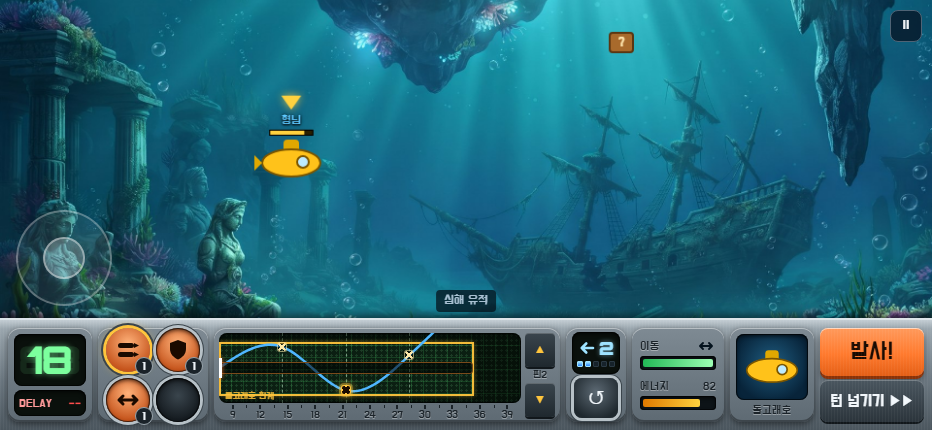
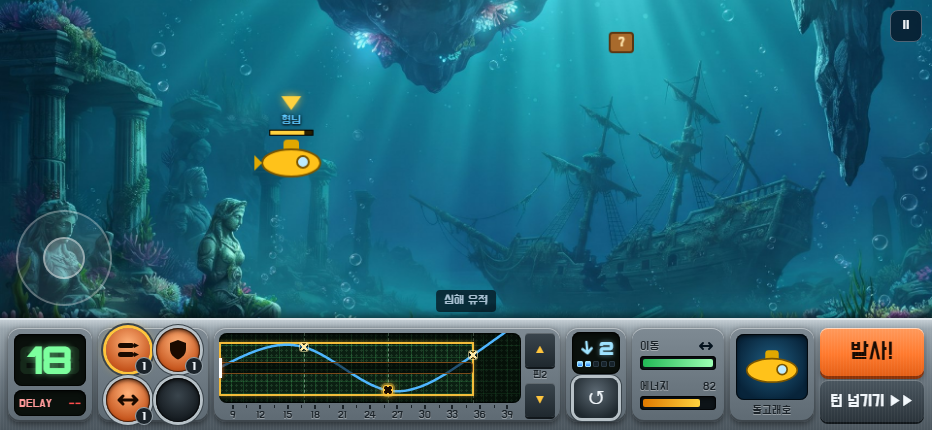
맨 끝 핀을 한계 박스 끝에

diff --git a/js/config.js b/js/config.js
@@ -51,7 +51,7 @@ window.GAME_CONFIG = {
     //       → 곡선 모양을 예측하기 쉬움 = 가까운 적을 정확히 맞히는 캐릭터
     //   - 간격이 고르지 않고 넓음 (예: 원거리형 → 가로 [16, 40, 76], limit.right 84)
     //       → 멀리까지 크게 휘게 만들 수 있지만 모양 잡기가 어려움
-    padPoints: [ [21, 20], [42, 82], [63, 32] ]
+    padPoints: [ [28, 20], [56, 82], [84, 32] ]   // 규칙(형님): 맨 끝 핀(핀3)의 가로 위치 = 한계 박스 오른쪽 끝(limit.right)
   },
 
   // 잠수함 이동 (조이스틱)
